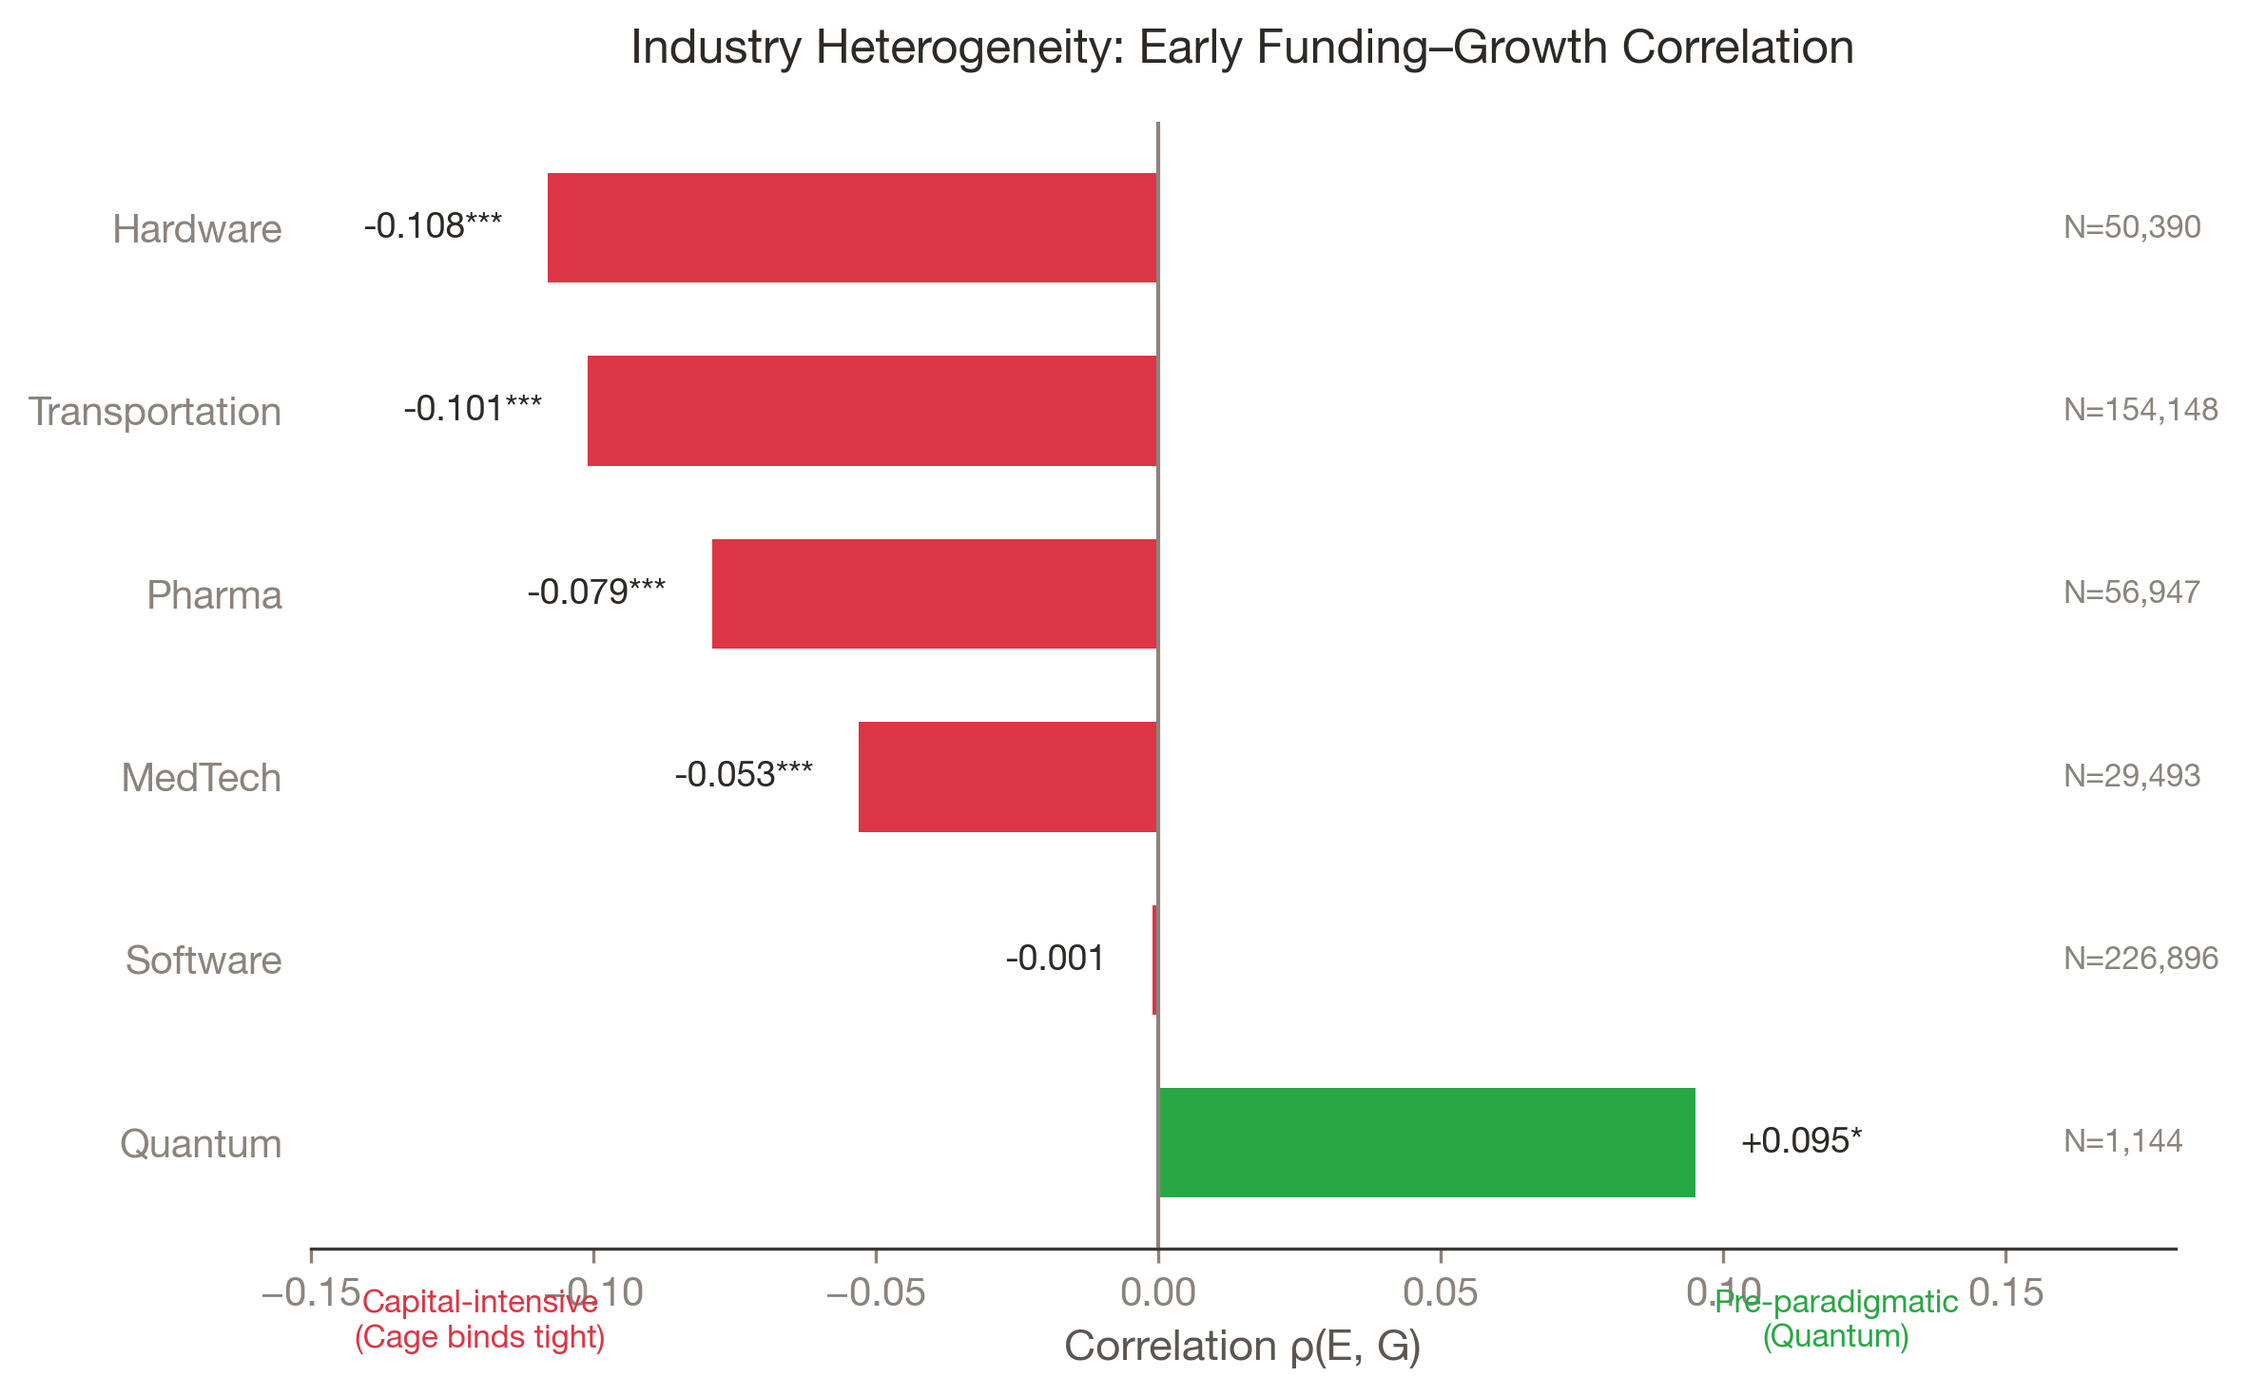
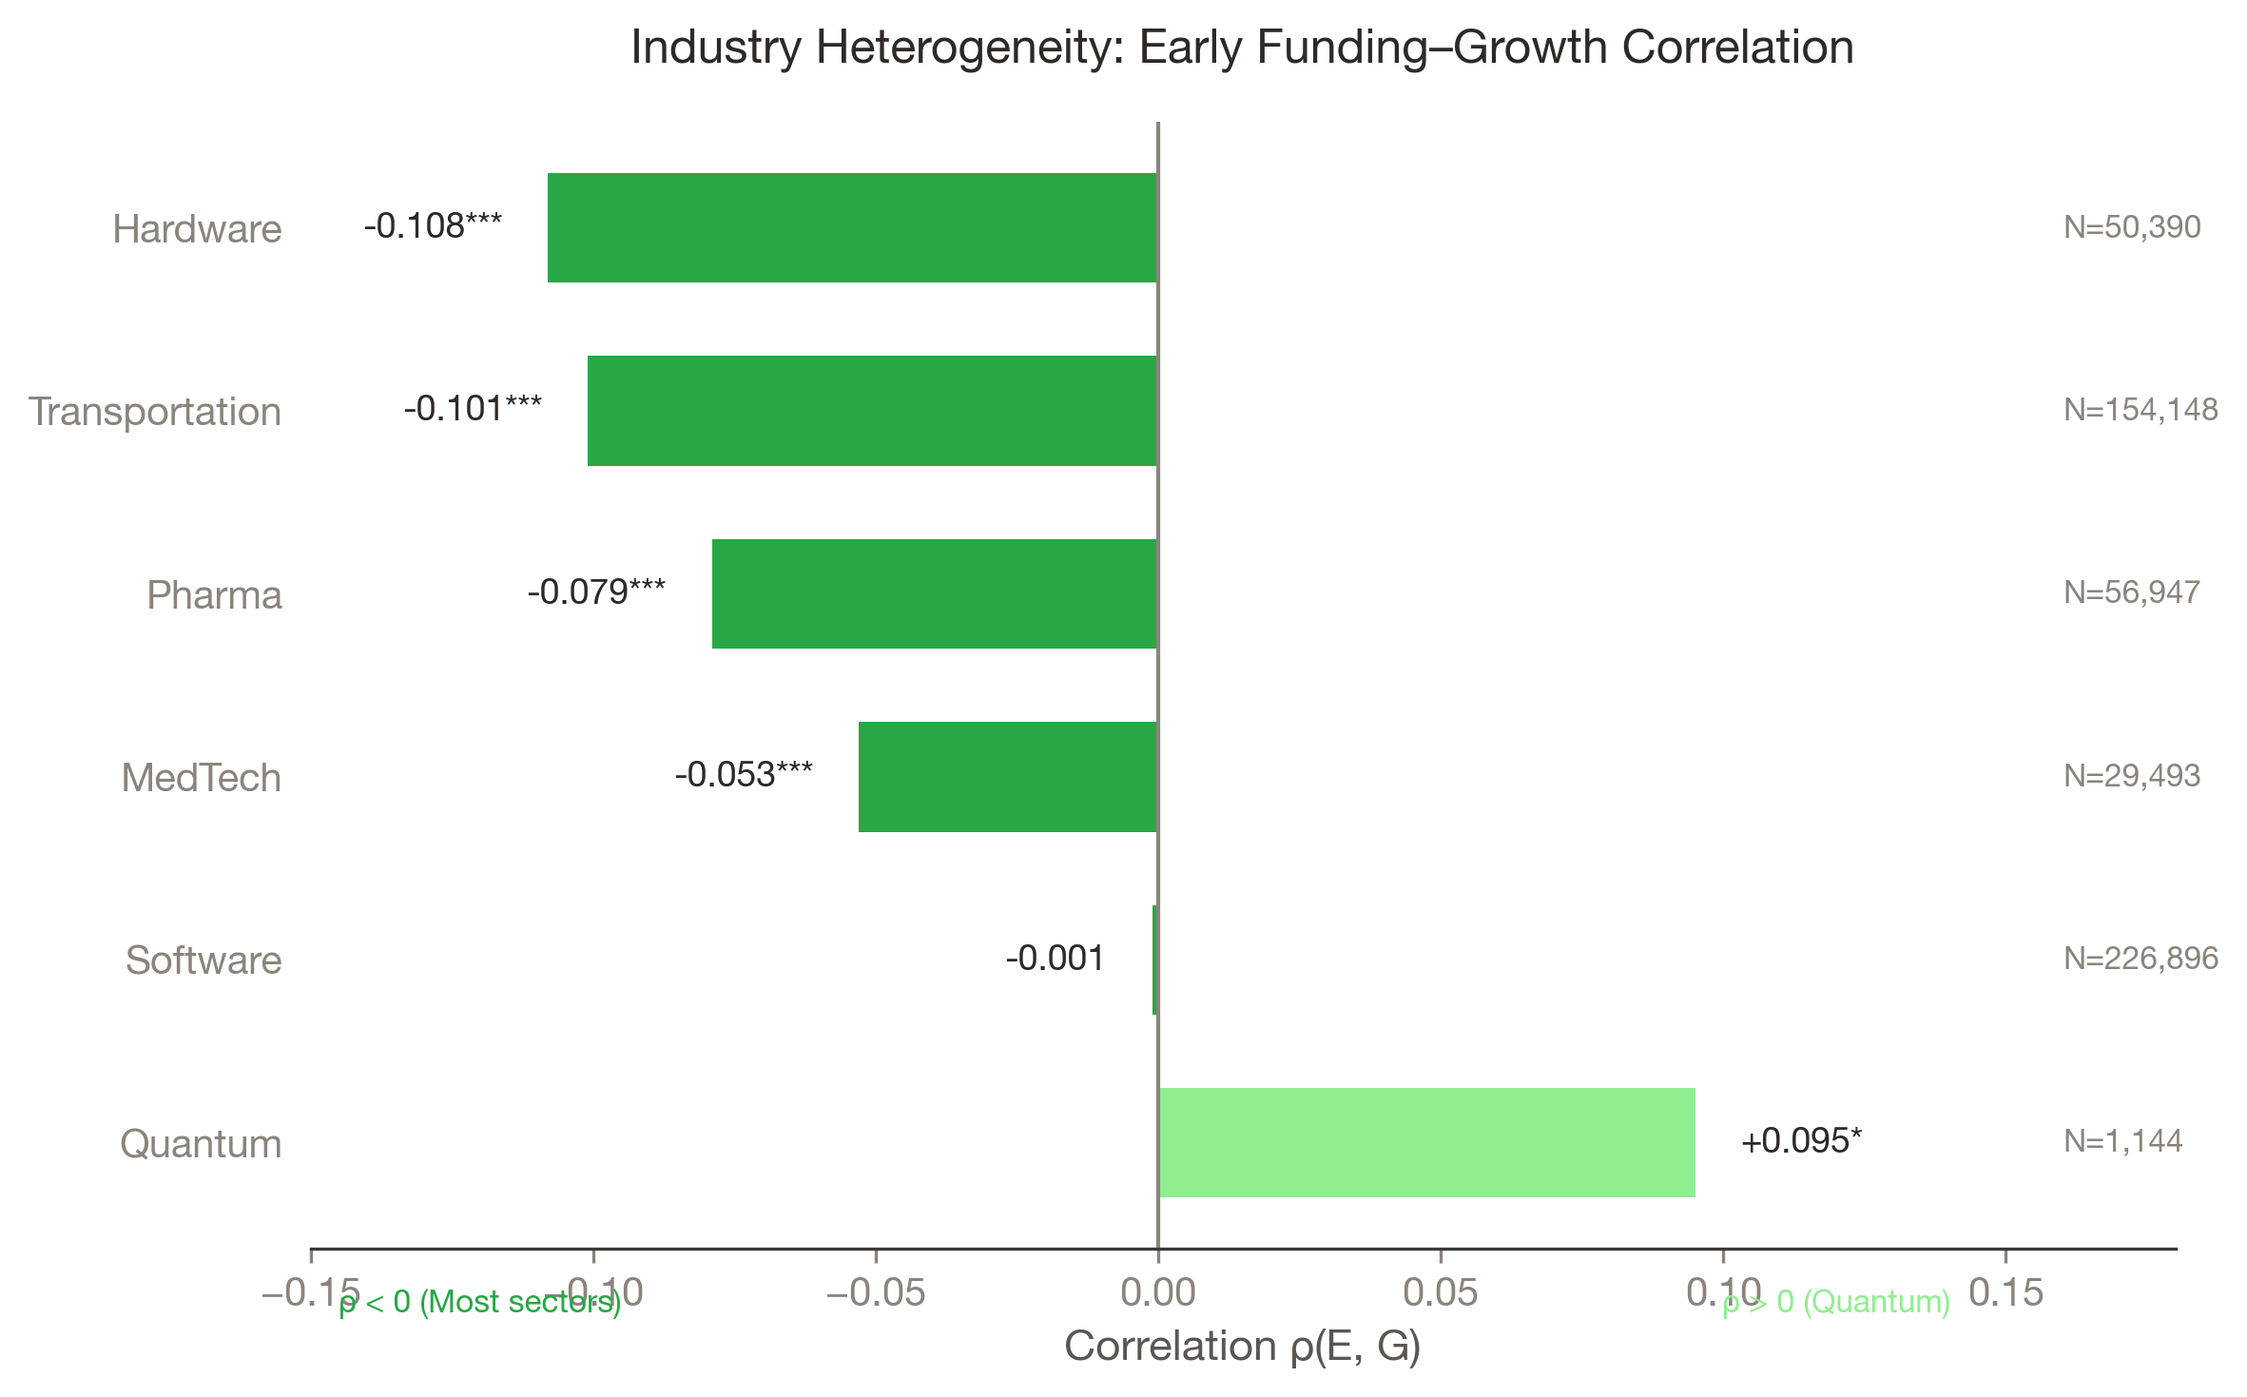
🔄 Sync from tolzul: color scheme + caption fix
- Ch4_Fig2: Light green (ρ>0) / Dark green (ρ<0) color scheme
- Fix $\rho(E,G)$ caption typo in chap4.tex
- Regenerated figures with updated colors
- Sync overleaf_upload folder

diff --git a/strategic_ambiguity/empirics/src/scripts/paper_generation/papers_v7_sail/overleaf_upload/latex(thesis)_chap4.tex b/strategic_ambiguity/empirics/src/scripts/paper_generation/papers_v7_sail/overleaf_upload/latex(thesis)_chap4.tex
@@ -41,7 +41,7 @@ To operationalize this relationship, I classify ventures as Movers or Stayers (p
 
 \emph{Note: \ensuremath{\Delta}B = B\_T - \ensuremath{B_0}. Zoom-in = narrowing (\ensuremath{\Delta}B \textless{} 0); Zoom-out = expanding (\ensuremath{\Delta}B \textgreater{} 0). Remaining Movers (36,554) have minimal directional change.}
 
-\textbf{Interpretive insight:} Both directions show elevated growth rates (17.1\% and 18.4\%). This suggests that \emph{moving clearly}, not which direction you move, explains the mover advantage. The binary Mover/Stayer distinction carries the primary identification. Three AV industry cases from Table~\ref{tab:breadth-examples} illustrate the pattern: Aurora (zoom-out mover, $3.2\times$), Cruise (zoom-in mover, $2.9\times$), and Argo AI (stayer, $1.0\times$). Results are robust to temporal stability across cohort years, survival conditioning (Year 3+ survivors: 2.35$\times$, Year 5+: 2.12$\times$), and alternative operationalizations of R. \emph{Full robustness tables and mover anatomy visualization are provided in Appendix C.}
+\textbf{Interpretive insight:} Both directions show elevated growth rates (17.1\% and 18.4\%). This suggests that \emph{moving clearly}, not which direction you move, explains the mover advantage. The binary Mover/Stayer distinction carries the primary identification. Three AV industry cases from Table~\ref{tab:breadth-examples} illustrate the pattern: Aurora (zoom-out mover, $3.2\times$), Cruise (zoom-in mover, $2.9\times$), and Argo AI (stayer, $1.0\times$). Results are robust to temporal stability across cohort years, survival conditioning (Year 3+ survivors: 2.35$\times$, Year 5+: 2.12$\times$), and alternative operationalizations of $R$ (Appendix~\ref{app:c}, Table~\ref{tab:threshold}, Figure~\ref{fig:threshold}).
 
 \hypertarget{h3-paradox-heterogeneity}{%
 \section{H3: Paradox Heterogeneity}\label{sec:h3-paradox-heterogeneity}}
@@ -58,11 +58,11 @@ The cage binds tighter in capital-intensive industries where switching costs are
 \hypertarget{fig:industry-rho}{%
 \centering
 \includegraphics[width=0.9\textwidth,]{img/Ch4_Fig2_industry_rho.png}
-\caption{Industry heterogeneity in the early funding--growth correlation \$ ho(E,G)\$ (bars show correlation by industry; \(N\) by industry shown in plot).}\label{fig:industry-rho}
+\caption{Industry heterogeneity in the early funding--growth correlation $\rho(E,G)$ (bars show correlation by industry; \(N\) by industry shown in plot).}\label{fig:industry-rho}
 }
 \end{figure}
 
-Three patterns emerge. Capital-intensive industries show the strongest negative correlations: Hardware ($\rho = -0.108$) and Transportation ($\rho = -0.101$) face the tightest cage because infrastructure and physical asset investments lock ventures into positions that cannot adapt---the mobility sector exemplifies this through triple vulnerability where capital intensity, regulatory uncertainty, and technology path uncertainty interact to multiply the cost of wrong commitment. Software shows near-zero correlation ($\rho = -0.001$, ns), demonstrating that low capital intensity allows cheap experimentation to offset governance rigidity. Quantum is the sole positive outlier ($\rho = +0.095$*): in technology evolution, industries pass through an ``era of ferment'' \citep{anderson1990technological} before a dominant design emerges, and quantum computing remains in this phase with superconducting qubits, trapped ions, photonic approaches, and topological qubits all viable. When no dominant design exists, capital cannot lock ventures into specific architectural choices because those choices have not yet crystallized---the learning value of capital dominates its rigidity cost. This is a boundary condition for the golden cage theory: the cage mechanism assumes that commitment narrows options, but in pre-paradigmatic industries, there may be no options to narrow. \emph{See Appendix C for industry survival baseline visualization.}
+Three patterns emerge. Capital-intensive industries show the strongest negative correlations: Hardware ($\rho = -0.108$) and Transportation ($\rho = -0.101$) face the tightest cage because infrastructure and physical asset investments lock ventures into positions that cannot adapt---the mobility sector exemplifies this through triple vulnerability where capital intensity, regulatory uncertainty, and technology path uncertainty interact to multiply the cost of wrong commitment. Software shows near-zero correlation ($\rho = -0.001$, ns), demonstrating that low capital intensity allows cheap experimentation to offset governance rigidity. Quantum is the sole positive outlier ($\rho = +0.095$*): in technology evolution, industries pass through an ``era of ferment'' \citep{anderson1990technological} before a dominant design emerges, and quantum computing remains in this phase with superconducting qubits, trapped ions, photonic approaches, and topological qubits all viable. When no dominant design exists, capital cannot lock ventures into specific architectural choices because those choices have not yet crystallized---the learning value of capital dominates its rigidity cost. This is a boundary condition for the golden cage theory: the cage mechanism assumes that commitment narrows options, but in pre-paradigmatic industries, there may be no options to narrow. \emph{See Appendix~\ref{app:c} for complete robustness tests across measurement, outcome coding, and sample construction choices (Table~\ref{tab:robustness-summary}).}
 
 \hypertarget{conclusion}{%
 \section{Conclusion}\label{conclusion}}

diff --git a/strategic_ambiguity/empirics/src/scripts/paper_generation/papers_v7_sail/overleaf_upload/latex(thesis)_chap3.tex b/strategic_ambiguity/empirics/src/scripts/paper_generation/papers_v7_sail/overleaf_upload/latex(thesis)_chap3.tex
@@ -33,7 +33,7 @@ I operationalize \textbf{Strategic Breadth (B)} using dictionary-based text anal
 
 The measure combines two components. The first is \emph{Categorical Vagueness}: how much a description uses broad, umbrella terms (``platform,'' ``ecosystem,'' ``solution'') rather than specific market categories (``mobile payments,'' ``enterprise SaaS''). A company describing itself as a ``technology platform'' spans many categories; one describing itself as ``inventory management software for small retailers'' does not. The second component is \emph{Concreteness Deficit}: whether the description lacks specific binding markers such as quantitative targets (``10,000 users'') or narrow technical specifications (``HIPAA-compliant cloud storage'').
 
-The resulting score ranges from 0 to 100. A score of 0 means maximally specific positioning--the company has committed to a narrow path. A score of 100 means maximally vague positioning--the company retains many possible directions. The sample mean is B = 45.2 (SD = 12.6). Full construction details appear in Appendix A.
+The resulting score ranges from 0 to 100. A score of 0 means maximally specific positioning--the company has committed to a narrow path. A score of 100 means maximally vague positioning--the company retains many possible directions. The sample mean is B = 45.2 (SD = 12.6). Full construction details appear in Appendix~\ref{app:a}; the bimodal distribution of $B$ is visualized in Appendix~\ref{app:c}, Figure~\ref{fig:bimodal}.
 
 \textbf{Illustrative Examples.} Table~\ref{tab:breadth-examples} demonstrates how the breadth measure (B) captures strategic positioning using examples from the autonomous vehicle (AV) industry--a capital-intensive sector where the golden cage mechanism binds tightly. Movers repositioned substantially between 2021--2025; Stayers maintained consistent positioning.
 
@@ -142,7 +142,7 @@ The central challenge is distinguishing selection from treatment effects. High-c
 
 However, I argue that selection is part of the mechanism, not a confound to be eliminated. The golden cage theory predicts that funding and rigidity correlate \emph{because} committed founders attract committed investors through sorting. The selection concern is precisely what the theory describes. The question is not whether selection exists--it does--but whether the pattern is consistent with the theoretical mechanism.
 
-I address identification in four ways. First, I adopt an intent-to-treat (ITT) perspective \citep{gelman2013bayesian}: the sample requires $B_T$ (2025 breadth) to compute repositioning, which conditions on survival. Following ITT principles, I conduct bounds analysis assigning $R=0$ to excluded firms (treating them as ``caged Stayers'' who couldn't reposition). The core correlations remain stable under this assumption (see Appendix~\ref{sec:survival-bias}). Second, I condition on survival duration: among Year 3+ survivors, Movers still achieve 2.35$\times$ higher success rates; among Year 5+ survivors, 2.12$\times$. The effect attenuates but persists. Third, I control for observable characteristics: founder experience, industry fixed effects, cohort timing, and initial positioning. Fourth, I interpret results as robust correlational patterns consistent with theory, not as causal effects. Future work could exploit quasi-experimental variation (VC fund vintage effects, geographic funding shocks) to strengthen causal claims.
+I address identification in three ways. First, I conduct bounds analysis for survival bias: the sample requires $B_T$ (2025 breadth) to compute repositioning, which conditions on survival. If excluded firms died because they were caged and couldn't reposition, they are ``extreme Stayers'' ($R=0$) with $G=0$. Assigning $R=0$ to all excluded firms yields $\rho(E,R) = -0.131$ (vs.\ $-0.133$ baseline)---the correlation is stable (see Appendix~\ref{app:c}, Table~\ref{tab:attenuation}). Furthermore, only 3\% of excluded firms are ``Out of Business''; 70\% are ``Generating Revenue,'' indicating data coverage rather than survival bias. Second, the Mover advantage persists under survival conditioning: 2.60$\times$ (full sample), 2.35$\times$ (Year 3+ survivors), 2.12$\times$ (Year 5+ survivors). Attenuation is expected---longer survival windows select for higher-quality firms---but the advantage remains economically meaningful (Appendix~\ref{app:c}, Table~\ref{tab:threshold}). Third, I interpret results as robust correlational patterns consistent with theory, not as causal effects. Future work could exploit quasi-experimental variation (VC fund vintage effects, geographic funding shocks) to strengthen causal claims. \emph{Note: H3 is sensitive to M\&A coding; when M\&A is coded as success, $\rho(E,G)$ reverses from $-0.04$ to $+0.15$. H1 and H2 are robust across all coding approaches (Appendix~\ref{app:c}, Table~\ref{tab:ma-sensitivity}).}
 
 \hypertarget{conclusion}{%
 \section{Conclusion}\label{conclusion}}

diff --git a/strategic_ambiguity/empirics/src/scripts/paper_generation/papers_v7_sail/overleaf_upload/latex(thesis)_chap5.tex b/strategic_ambiguity/empirics/src/scripts/paper_generation/papers_v7_sail/overleaf_upload/latex(thesis)_chap5.tex
@@ -96,7 +96,7 @@ Venture capitalists manage risk through staged financing: they commit capital in
 
 \subsection{The Funding Ladder}
 
-One of the most effective ways to preserve flexibility is to sequence non-dilutive capital before taking thesis-driven venture capital. The first rung is federal grants from agencies like NSF, DARPA, and DOE---these provide capital without board seats, and winning a competitive government grant signals technical credibility to future investors. The second rung is state and local matching grants that compound the credibility signal and extend runway without adding governance constraints. The third rung is private investors, who by this point face reduced perceived risk because government recognition and clarified market signals allow the venture to attract thesis-driven capital from a position of strength rather than desperation. This sequencing enables ventures to survive the ``valley of death'' while building the track record that first-time founders lack.
+One of the most effective ways to preserve flexibility is to sequence non-dilutive capital before taking thesis-driven venture capital. The first rung is federal grants from agencies like NSF, DARPA, and DOE---these provide capital without board seats, and winning a competitive government grant signals technical credibility to future investors. The second rung is state and local matching grants that compound the credibility signal and extend runway without adding governance constraints. The third rung is private investors, who by this point face reduced perceived risk because government recognition and clarified market signals allow the venture to attract thesis-driven capital from a position of strength rather than desperation. This sequencing enables ventures to survive the ``valley of death'' while building the track record that first-time founders lack. (See Appendix~\ref{app:e} for a catalog of non-dilutive funding sources.)
 
 \subsection{Case: Fast Ion Battery}
 

diff --git a/strategic_ambiguity/empirics/src/scripts/paper_generation/papers_v7_sail/overleaf_upload/latex(thesis)_chap1.tex b/strategic_ambiguity/empirics/src/scripts/paper_generation/papers_v7_sail/overleaf_upload/latex(thesis)_chap1.tex
@@ -59,4 +59,4 @@ The second contribution is theoretical: I explain why the paradox arises. The go
 
 The third contribution is prescriptive: I provide a framework for founders to dance with the cage---committing credibly while preserving flexibility. The key is to distinguish what to commit to (vision vs.~operations), how to grow (diagnosing market vs.~operational bottlenecks), and how to fund (sequencing capital sources to preserve governance diversity). These principles help founders work within the cage's constraints without sacrificing the credibility required to attract resources.
 
-Chapter~\ref{ch:theory} begins by developing the theoretical foundations of the golden cage.
+A glossary of key terms and summary statistics appears in Appendix~\ref{app:d}. Chapter~\ref{ch:theory} begins by developing the theoretical foundations of the golden cage.

diff --git a/strategic_ambiguity/empirics/src/scripts/paper_generation/papers_v7_sail/latex(thesis)_chap4.tex b/strategic_ambiguity/empirics/src/scripts/paper_generation/papers_v7_sail/latex(thesis)_chap4.tex
@@ -58,7 +58,7 @@ The cage binds tighter in capital-intensive industries where switching costs are
 \hypertarget{fig:industry-rho}{%
 \centering
 \includegraphics[width=0.9\textwidth,]{img/Ch4_Fig2_industry_rho.png}
-\caption{Industry heterogeneity in the early funding--growth correlation \$ ho(E,G)\$ (bars show correlation by industry; \(N\) by industry shown in plot).}\label{fig:industry-rho}
+\caption{Industry heterogeneity in the early funding--growth correlation $\rho(E,G)$ (bars show correlation by industry; \(N\) by industry shown in plot).}\label{fig:industry-rho}
 }
 \end{figure}
 

diff --git a/strategic_ambiguity/empirics/src/scripts/paper_generation/papers_v7_sail/.audit_logs/issue_20260117_124439.md b/strategic_ambiguity/empirics/src/scripts/paper_generation/papers_v7_sail/.audit_logs/issue_20260117_124439.md
@@ -1,0 +1,1 @@
+/Users/hyunjimoon/tolzul/Front/On/love(cs)/strategic_ambiguity/empirics/src/scripts/paper_generation/papers_v7_sail/code/thesis_audit_loop.sh: line 185: claude: command not found
